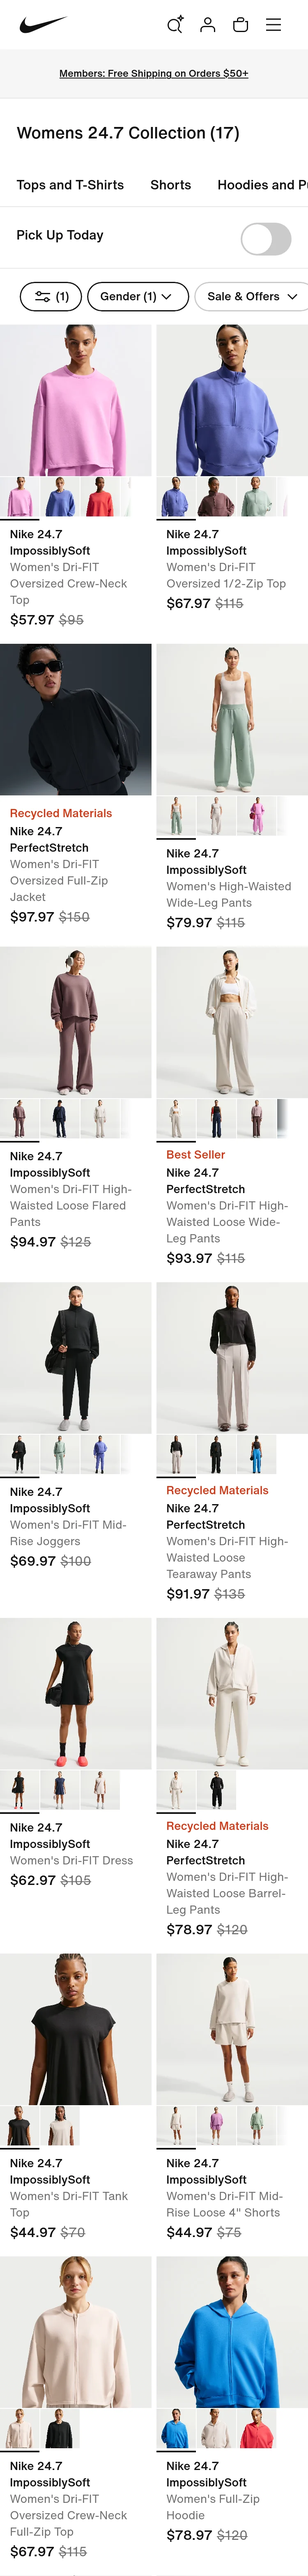
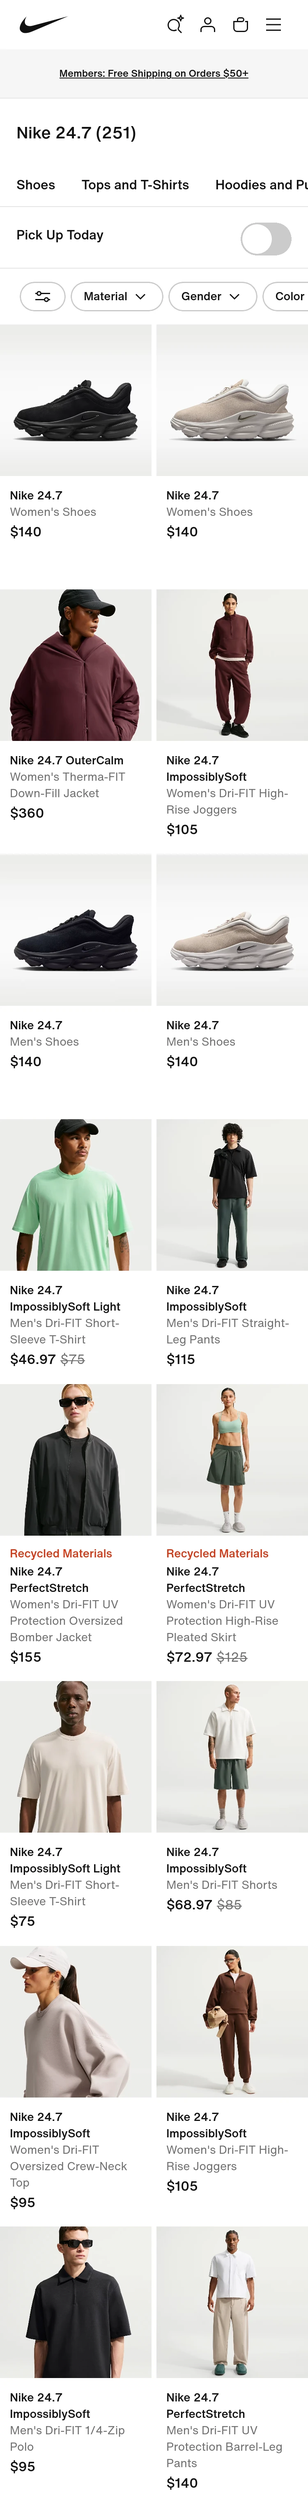
FMSS Caption & Browse: IAB page is now the regular Nike 24.7 page (nike.com/w/nike-247-3wdkx, all genders, 251) instead of Womens 24.7 Collection; capture 750x6104 (375x3052 @2x), max scroll 2430; nike-247.webp?v=2

diff --git a/preview/fmss-cb/index.html b/preview/fmss-cb/index.html
@@ -78,8 +78,8 @@ img.abs{pointer-events:none;-webkit-user-drag:none}
 .load{left:0;top:52px;width:375px;height:2px;background:#E5E5EA;z-index:3;opacity:0;pointer-events:none;overflow:hidden}
 .load i{position:absolute;inset:0;background:#2F4EBE;transform-origin:0 50%;transform:scaleX(0)}
 .webv{left:0;top:52px;width:375px;height:808px;overflow:hidden;z-index:1}
-/* captured page (nike.com Womens 24.7 Collection, 375 css px wide @2x); scrolls inside .webv via the `translate` property (opacity is animated by the page load) */
-.web{left:0;top:0;width:375px;height:3135px;will-change:translate}
+/* captured page (nike.com/w/nike-247-3wdkx "Nike 24.7", all genders, 375 css px wide @2x); scrolls inside .webv via the `translate` property (opacity is animated by the page load) */
+.web{left:0;top:0;width:375px;height:3052px;will-change:translate}
 .footer{left:-16px;top:714px;width:407px;height:114px;z-index:25;pointer-events:none;will-change:transform}
 .x{left:325px;top:46px;width:44px;height:44px;z-index:40;border-radius:22px;display:none}
 .x.on{display:block}
@@ -133,7 +133,7 @@ img.abs{pointer-events:none;-webkit-user-drag:none}
           <img class="abs iab-h iab-hf" id="hFull" src="assets/iab-header-full.svg" alt="">
           <div class="abs handle" id="handle" aria-hidden="true"></div>
           <div class="abs load" id="load" aria-hidden="true"><i id="loadFill"></i></div>
-          <div class="abs webv" id="webv"><img class="abs web" id="web" src="assets/nike-247.webp" width="375" height="3135" alt="nike.com, Womens 24.7 Collection (17): Members free shipping banner, Tops and T-Shirts, Shorts and Hoodies category pills, Pick Up Today toggle, filters, and a product grid of Nike 24.7 ImpossiblySoft and PerfectStretch women's tops, pants, jackets and a dress with sale prices"></div>
+          <div class="abs webv" id="webv"><img class="abs web" id="web" src="assets/nike-247.webp?v=2" width="375" height="3052" alt="nike.com, Nike 24.7 (251): Members free shipping banner, Shoes, Tops and T-Shirts and Hoodies category pills, Pick Up Today toggle, filters, and a product grid of Nike 24.7 men's and women's shoes, ImpossiblySoft and PerfectStretch tops, pants, shorts, jackets and a skirt"></div>
         </div>
         <img class="abs footer" id="footer" src="assets/iab-footer.svg" alt="">
         <img class="abs status" id="statusL" src="assets/statusbar-light.svg" alt="">
@@ -238,7 +238,7 @@ function springTo(target,{v=0,w=18,z=1,onDone}={}){
 }
 /* ---------- web content scroll (full screen only): swipe up on the page scrolls it; at the top a downward swipe hands off to the sheet ----------
    Visible page height in full = 812 - (44 sheet + 48 header) minus the footer overlap (≈98) → max scroll = page height - 622. */
-const WEB_H=3135,SMAX=WEB_H-622;
+const WEB_H=3052,SMAX=WEB_H-622;
 let sy=0,sraf=0;
 function setScroll(v){sy=v;$('web').style.translate=`0 ${(-v).toFixed(2)}px`}
 function stopScroll(){cancelAnimationFrame(sraf);sraf=0}
